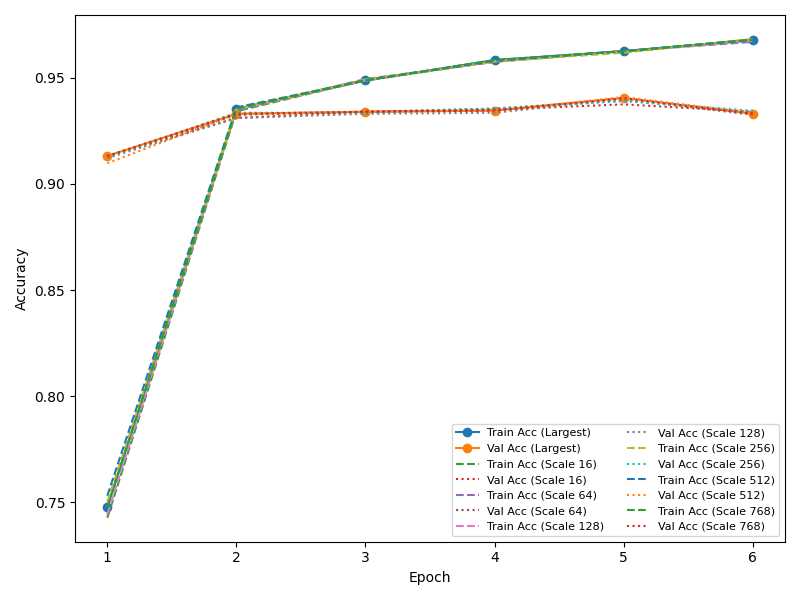
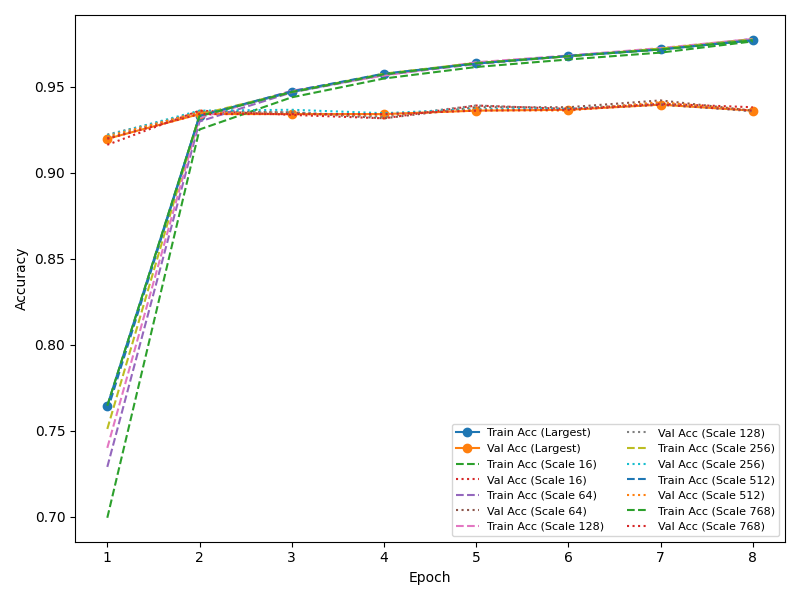
added some changes to ensure faithful recreation of MRL

diff --git a/src/architecture.py b/src/architecture.py
@@ -4,6 +4,7 @@ from typing import List
 import matplotlib.pyplot as plt
 from tqdm import tqdm
 from transformers import AutoModel, AdamW, get_linear_schedule_with_warmup
+import torch.nn.functional as F
 
 class Architecture:
     def __init__(
@@ -21,7 +22,7 @@ class Architecture:
     ):
         self.model_name = model_name
         self.num_classes = num_classes
-        self.m_scales = m_scales
+        self.m_scales = sorted(m_scales)  # just making sure that scales is passed in the correct order
         self.apply_mrl = apply_mrl
         self.trainloader = trainloader
         self.valloader = valloader
@@ -30,35 +31,52 @@ class Architecture:
         self.num_epochs = num_epochs
         self.device = device
 
+        # Load BERT
         self.bert_model = AutoModel.from_pretrained(model_name).to(device)
+        
         if apply_mrl:
-            self.classifiers = nn.ModuleList([nn.Linear(d, num_classes) for d in m_scales])
+            max_scale = max(self.m_scales)
+            self.mrl_projection = nn.Linear(768, max_scale).to(device)
+            self.shared_classifier = nn.Linear(max_scale, num_classes).to(device)
         else:
-            self.classifiers = nn.ModuleList([nn.Linear(768, num_classes)])
-        self.classifiers.to(device)
-
-        params = list(self.bert_model.parameters()) + list(self.classifiers.parameters())
+            self.shared_classifier = nn.Linear(768, num_classes).to(device)
+        
+        if apply_mrl:
+            params = list(self.bert_model.parameters()) + list(self.mrl_projection.parameters()) + list(self.shared_classifier.parameters())
+        else:
+            params = list(self.bert_model.parameters()) + list(self.shared_classifier.parameters())
         self.optimizer = AdamW(params, lr=lr)
         steps = len(trainloader) * num_epochs
         self.scheduler = get_linear_schedule_with_warmup(self.optimizer, 0, steps)
         self.ce_loss = nn.CrossEntropyLoss()
 
+        # collecting data for tracking
         self.epoch_list = []
         self.train_loss_history = []
         self.val_loss_history = []
-        self.scale_loss_history = [[] for _ in m_scales]
+        self.scale_loss_history = [[] for _ in self.m_scales]
         self.train_acc_history = []
         self.val_acc_history = []
-        self.scale_train_acc_history = [[] for _ in m_scales]
-        self.scale_val_acc_history = [[] for _ in m_scales]
+        self.scale_train_acc_history = [[] for _ in self.m_scales]
+        self.scale_val_acc_history = [[] for _ in self.m_scales]
         self.best_val_loss = float("inf")
 
     def forward(self, input_ids: Tensor, attention_mask: Tensor):
         out = self.bert_model(input_ids=input_ids, attention_mask=attention_mask)
         cls_out = out.last_hidden_state[:, 0, :]
+        
         if self.apply_mrl:
-            return [self.classifiers[i](cls_out[:, :d]) for i, d in enumerate(self.m_scales)]
-        return self.classifiers[0](cls_out)
+            proj_out = self.mrl_projection(cls_out)  # shape: [batch, max_scale]
+            outputs = []
+            # For each scale d, use the first d dimensions of both representation and classifier weight.
+            for d in self.m_scales:
+                nested_rep = proj_out[:, :d]
+                nested_weight = self.shared_classifier.weight[:, :d]
+                logits = F.linear(nested_rep, nested_weight, self.shared_classifier.bias)
+                outputs.append(logits)
+            return outputs
+        else:
+            return self.shared_classifier(cls_out)
 
     def compute_loss(self, preds, labels: Tensor):
         if isinstance(preds, torch.Tensor):
@@ -83,13 +101,17 @@ class Architecture:
 
     def train_one_epoch(self, epoch_idx):
         self.bert_model.train()
-        self.classifiers.train()
+        if self.apply_mrl:
+            self.mrl_projection.train()
+        self.shared_classifier.train()
         total_loss, n_batches = 0.0, 0
         scale_loss_sum = [0.0] * len(self.m_scales)
         scale_acc_sum = [0.0] * len(self.m_scales)
 
         for batch in tqdm(self.trainloader, desc=f"Train Epoch {epoch_idx}"):
-            inp, mask, labels = batch["input_ids"].to(self.device), batch["attention_mask"].to(self.device), batch["labels"].to(self.device)
+            inp = batch["input_ids"].to(self.device)
+            mask = batch["attention_mask"].to(self.device)
+            labels = batch["labels"].to(self.device)
             self.optimizer.zero_grad()
             outputs = self.forward(inp, mask)
             loss = self.compute_loss(outputs, labels)
@@ -97,8 +119,10 @@ class Architecture:
 
             sw_losses = self.compute_scale_wise_loss(outputs, labels)
             sw_accs = self.compute_scale_wise_accuracy(outputs, labels)
-            for i, val in enumerate(sw_losses): scale_loss_sum[i] += val
-            for i, val in enumerate(sw_accs):   scale_acc_sum[i]  += val
+            for i, val in enumerate(sw_losses):
+                scale_loss_sum[i] += val
+            for i, val in enumerate(sw_accs):
+                scale_acc_sum[i] += val
 
             loss.backward()
             self.optimizer.step()
@@ -113,22 +137,28 @@ class Architecture:
 
     def validate_one_epoch(self, epoch_idx):
         self.bert_model.eval()
-        self.classifiers.eval()
+        if self.apply_mrl:
+            self.mrl_projection.eval()
+        self.shared_classifier.eval()
         total_loss, n_batches = 0.0, 0
         scale_loss_sum = [0.0] * len(self.m_scales)
         scale_acc_sum = [0.0] * len(self.m_scales)
 
         with torch.no_grad():
             for batch in tqdm(self.valloader, desc=f"Val Epoch {epoch_idx}"):
-                inp, mask, labels = batch["input_ids"].to(self.device), batch["attention_mask"].to(self.device), batch["labels"].to(self.device)
+                inp = batch["input_ids"].to(self.device)
+                mask = batch["attention_mask"].to(self.device)
+                labels = batch["labels"].to(self.device)
                 outputs = self.forward(inp, mask)
                 loss = self.compute_loss(outputs, labels)
                 total_loss += loss.item()
 
                 sw_losses = self.compute_scale_wise_loss(outputs, labels)
                 sw_accs = self.compute_scale_wise_accuracy(outputs, labels)
-                for i, val in enumerate(sw_losses): scale_loss_sum[i] += val
-                for i, val in enumerate(sw_accs):   scale_acc_sum[i]  += val
+                for i, val in enumerate(sw_losses):
+                    scale_loss_sum[i] += val
+                for i, val in enumerate(sw_accs):
+                    scale_acc_sum[i] += val
                 n_batches += 1
 
         avg_loss = total_loss / n_batches
@@ -145,17 +175,26 @@ class Architecture:
             self.epoch_list.append(e)
             self.train_loss_history.append(train_loss)
             self.val_loss_history.append(val_loss)
-            for i, sl in enumerate(train_sw_loss): self.scale_loss_history[i].append(sl)
+            for i, sl in enumerate(train_sw_loss):
+                self.scale_loss_history[i].append(sl)
             self.train_acc_history.append(train_overall_acc)
             self.val_acc_history.append(val_overall_acc)
-            for i, acc_val in enumerate(train_sw_acc): self.scale_train_acc_history[i].append(acc_val)
-            for i, acc_val in enumerate(val_sw_acc):   self.scale_val_acc_history[i].append(acc_val)
+            for i, acc_val in enumerate(train_sw_acc):
+                self.scale_train_acc_history[i].append(acc_val)
+            for i, acc_val in enumerate(val_sw_acc):
+                self.scale_val_acc_history[i].append(acc_val)
 
             if val_loss < self.best_val_loss:
                 self.best_val_loss = val_loss
-                torch.save({'bert_model': self.bert_model.state_dict(),
-                            'classifiers': self.classifiers.state_dict()},
-                           "emotion_classifier_model.pth")
+                state_dict = {}
+                for k, v in self.bert_model.state_dict().items():
+                    state_dict["bert." + k] = v
+                if self.apply_mrl:
+                    for k, v in self.mrl_projection.state_dict().items():
+                        state_dict["mrl_projection." + k] = v
+                for k, v in self.shared_classifier.state_dict().items():
+                    state_dict["shared_classifier." + k] = v
+                torch.save(state_dict, "emotion_classifier_model.pth")
 
             print(f"\nEpoch {e} Summary:")
             print(f" Train Loss: {train_loss:.4f} | Val Loss: {val_loss:.4f}")

diff --git a/src/visualize.py b/src/visualize.py
@@ -10,9 +10,9 @@ from sklearn.metrics import (
     classification_report,
     accuracy_score
 )
-
 from data_loader import Data_Loader
 from transformers import AutoModel
+import torch.nn.functional as F  # Needed for F.linear
 
 class Evaluator:
     def __init__(
@@ -38,9 +38,11 @@ class Evaluator:
         _, _, self.testloader = loader.get_dataset()
         self.tokenizer = loader.tokenizer
 
-        # Build model with MRL classifiers
+        # Build the model to match the revised MRL architecture:
+        # BERT + shared mrl_projection + shared_classifier.
         self._build_model()
-        self.model.load_state_dict(torch.load(model_path, map_location=device))
+        state_dict = torch.load(model_path, map_location=device)
+        self.model.load_state_dict(state_dict)
         self.model.to(device)
 
         # We'll store predictions/probs for each scale
@@ -49,17 +51,30 @@ class Evaluator:
         self.targets = []
 
     def _build_model(self):
-        # Build a small container model that parallels your Architecture logic
+        # Build a container model that reflects the revised training architecture.
         self.bert = AutoModel.from_pretrained(self.model_name)
-        self.classifiers = nn.ModuleList([nn.Linear(d, self.num_classes) for d in self.scales])
+        max_scale = max(self.scales)
+        self.mrl_projection = nn.Linear(768, max_scale)
+        self.shared_classifier = nn.Linear(max_scale, self.num_classes)
         self.model = nn.Module()
         self.model.bert = self.bert
-        self.model.classifiers = self.classifiers
+        self.model.mrl_projection = self.mrl_projection
+        self.model.shared_classifier = self.shared_classifier
 
     def _forward(self, input_ids, attention_mask):
         out = self.model.bert(input_ids=input_ids, attention_mask=attention_mask)
         cls_out = out.last_hidden_state[:, 0, :]
-        return [self.model.classifiers[i](cls_out[:, :d]) for i, d in enumerate(self.scales)]
+        # Project to a vector of size [batch, max_scale]
+        proj_out = self.model.mrl_projection(cls_out)
+        outputs = []
+        # For each scale d, use the first d dimensions from both the projection
+        # and the classifier's weight matrix to enforce a nested structure.
+        for d in self.scales:
+            nested_rep = proj_out[:, :d]
+            nested_weight = self.model.shared_classifier.weight[:, :d]
+            logits = F.linear(nested_rep, nested_weight, self.model.shared_classifier.bias)
+            outputs.append(logits)
+        return outputs
 
     def evaluate(self):
         self.model.eval()
@@ -121,7 +136,6 @@ class Evaluator:
         collected = 0
         for batch in self.testloader:
             if "text" not in batch:
-                # If the dataset doesn't retain raw text, skip or handle differently
                 break
             for i in range(len(batch["text"])):
                 if collected >= self.max_samples:

diff --git a/src/main.py b/src/main.py
@@ -10,12 +10,12 @@ ds_loader = Data_Loader(model_name="bert-base-uncased", max_length=256, batch_si
 train_ds, val_ds, test_ds = ds_loader.get_dataset()
 
 model = Architecture(model_name="bert-base-uncased", num_classes=6, m_scales=[16, 64, 128, 256, 512, 768], apply_mrl=True, trainloader=train_ds, valloader=val_ds, cm=torch.tensor([1, 1, 1, 1, 1, 1], 
-    dtype=torch.float), lr=1e-5, num_epochs=6, device="cuda")
+    dtype=torch.float), lr=1e-5, num_epochs=8, device="cuda")
 
 if train:
     model.fit()
 tester = Evaluator(model_path="emotion_classifier_model.pth", model_name="bert-base-uncased", num_classes=6, scales=[16, 64, 128, 256, 512, 768], device="cuda",
 class_names=["sadness", "joy", "love", "anger", "fear", "surprise"])
 
-if test:
+if test: 
     tester.run_tests()
